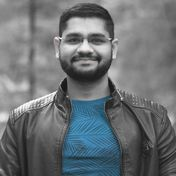
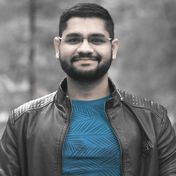
feat: fix skin tint, gate facial hair, name on its own line at 2x
The skin warmth I reported previously had not landed. Measuring the output
instead of trusting a visual read showed face chroma at 0.43% against 28.14%
in the source: two percent survived. Two real bugs, not a matter of taste.

- Skin was keyed on warm hues, but the canopy throws cool light on the face,
  so the skin is cool-hued in the source and sat inside the blue branch, which
  claimed it first. Now detected as a mid-tone in the red-through-yellow arc
  and given a warm TINT, since restoring the source hue would restore the
  wrong colour under this light.
- With warmth working, the beard measured 20% chroma. Facial hair shares the
  warm hue arc with skin, so hue alone cannot separate them; value can, since
  skin is bright and hair is dark. Added a hair gate.
- Added check_skin.py and check_skin_even.py, so this is measurable rather
  than a matter of opinion. The earlier claim should have been measured first.
- Name moved to its own line at 2x desktop / 1.6rem mobile, semibold, with
  the role beneath it. It previously shared a line with the job title, which
  is why increasing the size looked like it had no effect.

Measured after: skin 11.16% chroma and even (ratio 0.04), beard 2.16% grey,
shirt 55.25% blue, background 0.00%.

diff --git a/src/modules/Hero/index.tsx b/src/modules/Hero/index.tsx
@@ -61,8 +61,14 @@ export default function Hero() {
             <Pop delay={2} className="mt-6 flex items-center gap-3.5 md:hidden">
               <Portrait variant="chip" />
               <div className="min-w-0">
-                <p className="text-lg font-medium md:text-xl" style={{ color: 'var(--color-ink-2)' }}>
-                  {hero.name} · {hero.role}
+                <p
+                  className="text-[1.6rem] leading-tight font-semibold md:text-3xl"
+                  style={{ color: 'var(--color-ink)' }}
+                >
+                  {hero.name}
+                </p>
+                <p className="mt-0.5 text-sm" style={{ color: 'var(--color-ink-2)' }}>
+                  {hero.role}
                 </p>
                 <p className="mt-0.5 font-mono text-xs" style={{ color: 'var(--color-muted)' }}>
                   {hero.location}
@@ -71,8 +77,14 @@ export default function Hero() {
             </Pop>
 
             <Pop delay={2} className="mt-6 hidden md:block">
-              <p className="text-lg font-medium md:text-xl" style={{ color: 'var(--color-ink-2)' }}>
-                {hero.name} · {hero.role}
+              <p
+                className="text-2xl leading-tight font-semibold md:text-[2rem]"
+                style={{ color: 'var(--color-ink)' }}
+              >
+                {hero.name}
+              </p>
+              <p className="mt-1.5 text-base" style={{ color: 'var(--color-ink-2)' }}>
+                {hero.role}
               </p>
               <p className="mt-1 font-mono text-xs" style={{ color: 'var(--color-muted)' }}>
                 {hero.location}
